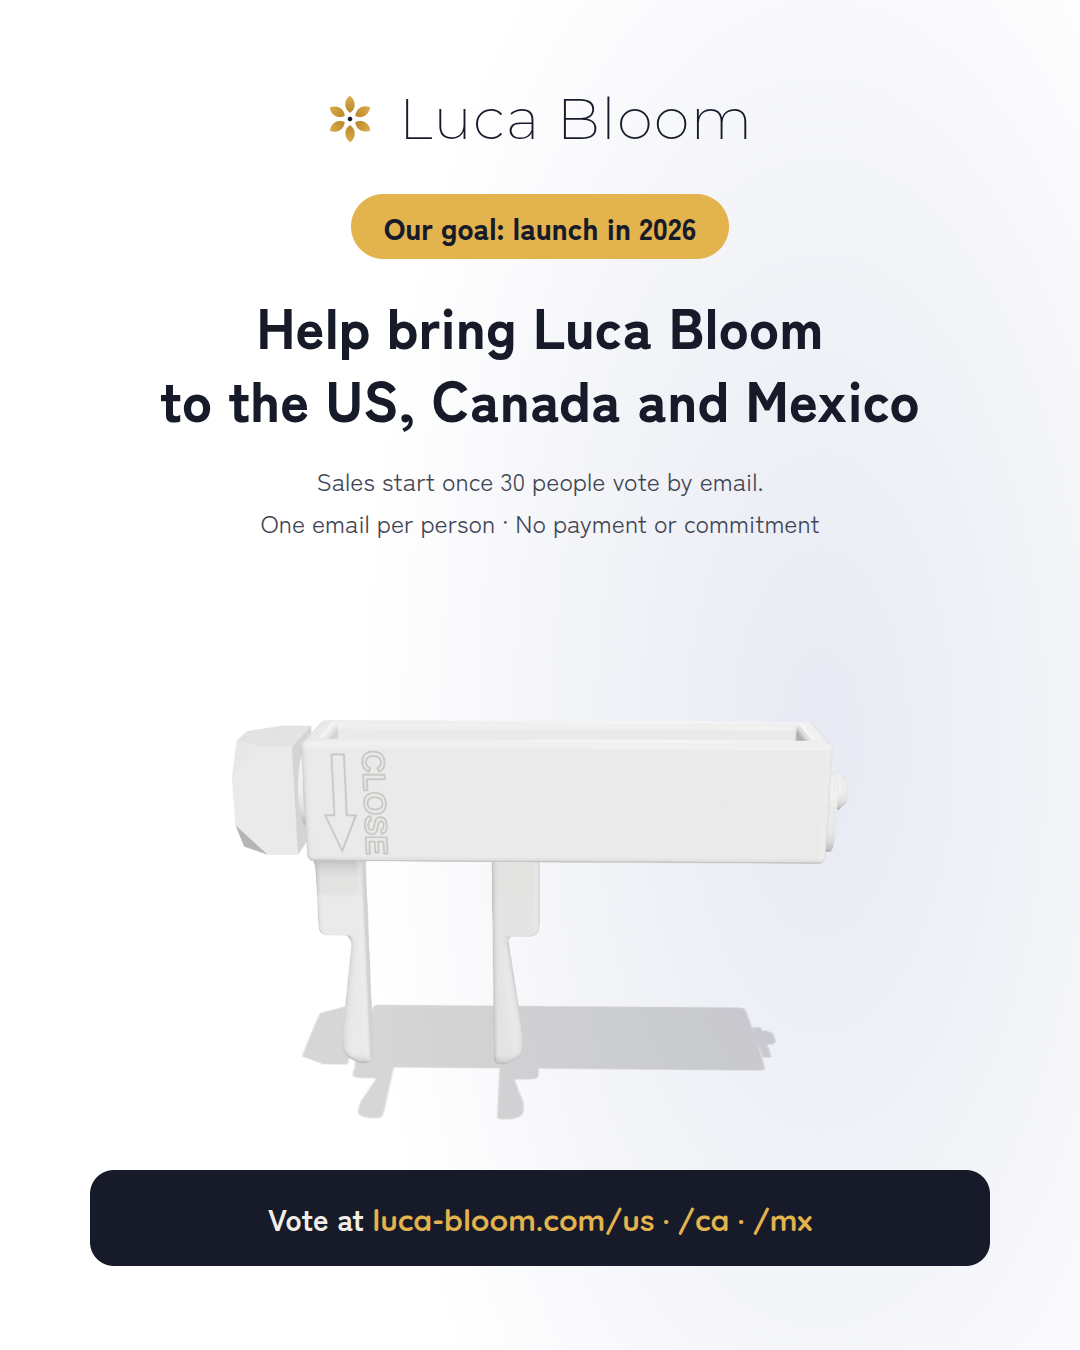
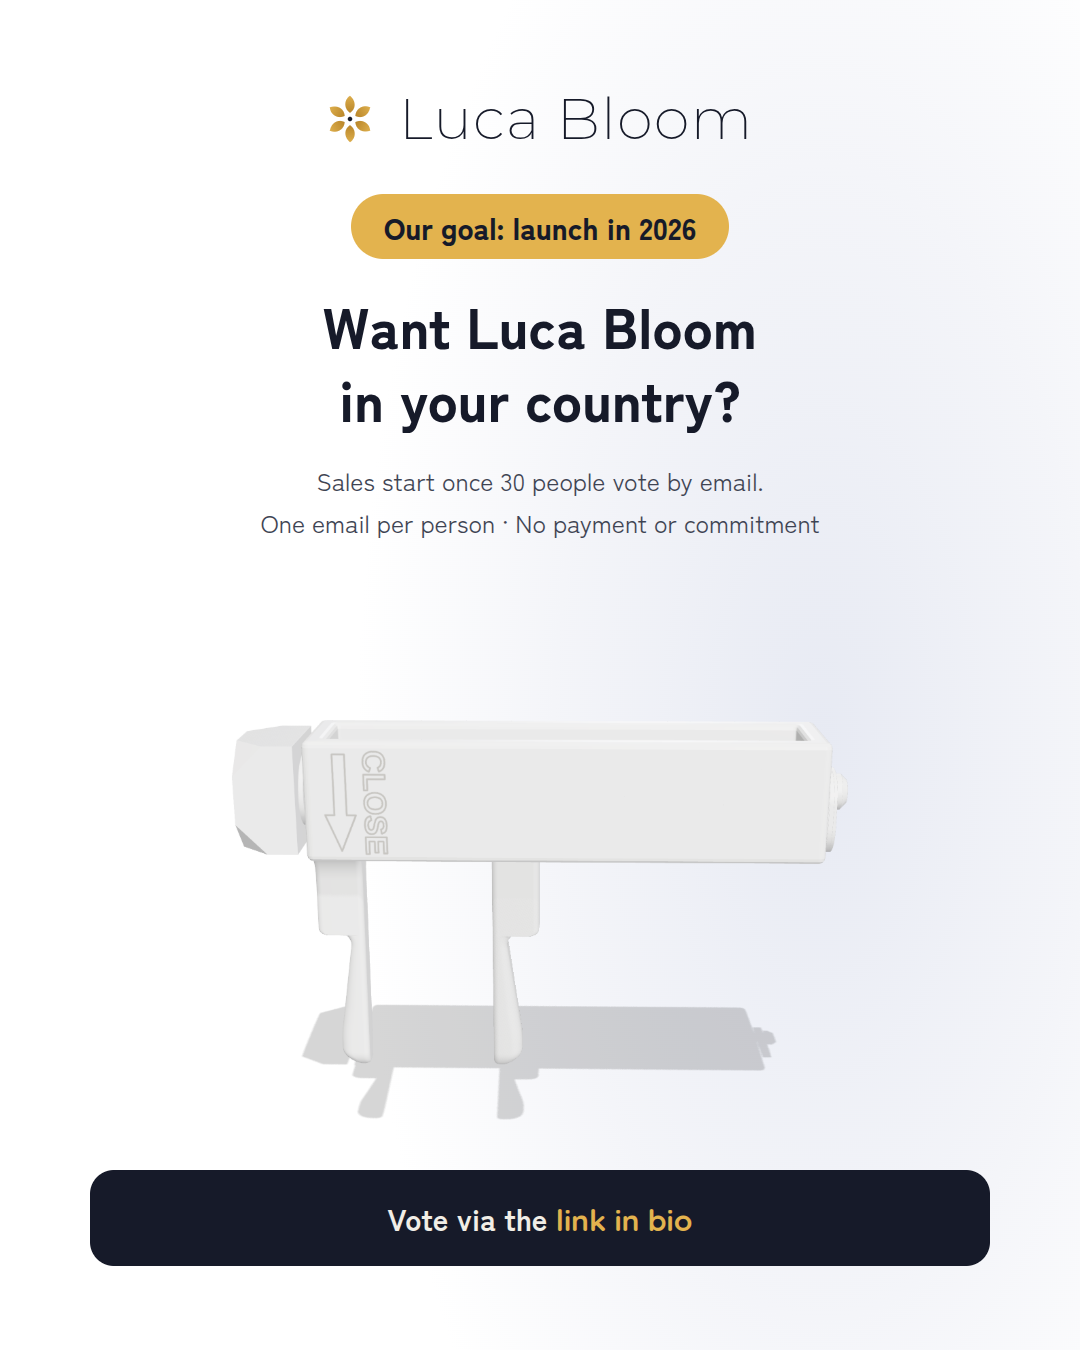
投票の告知画像から国名を外す（Want Luca Bloom in your country? / link in bio）
Claude-Session: https://claude.ai/code/session_016YenGTG3x62jvD6ZRQeA6d

Changed region(s): [[0.1528, 0.2178, 0.8556, 0.3422], [0.2444, 0.9022, 0.6722, 0.9333], [0.7028, 0.9022, 0.7639, 0.9333]]

diff --git a/sns/en/brand/README.md b/sns/en/brand/README.md
@@ -8,7 +8,7 @@
 広報は英語1本で行うため、画像は全市場共通です。販売国が増えても作り直さずに使えるよう、国名・販売先は入れていません。
 
 - リンク先：luca-bloom.com/en（英語LP。画面上部の「Language」から各国のページへ移れます）
-- 例外：投票の呼びかけ画像（`vote-*`）は、米国・カナダ・メキシコの投票期間だけ使う投稿用のため国名が入っています
+- 投票の呼びかけ画像（`vote-*`）も国名なし。「Vote via the link in bio（プロフィールのリンクから投票）」として、リンク先の LP から各国の投票ページへ移ってもらいます
 
 ## ファイル
 
